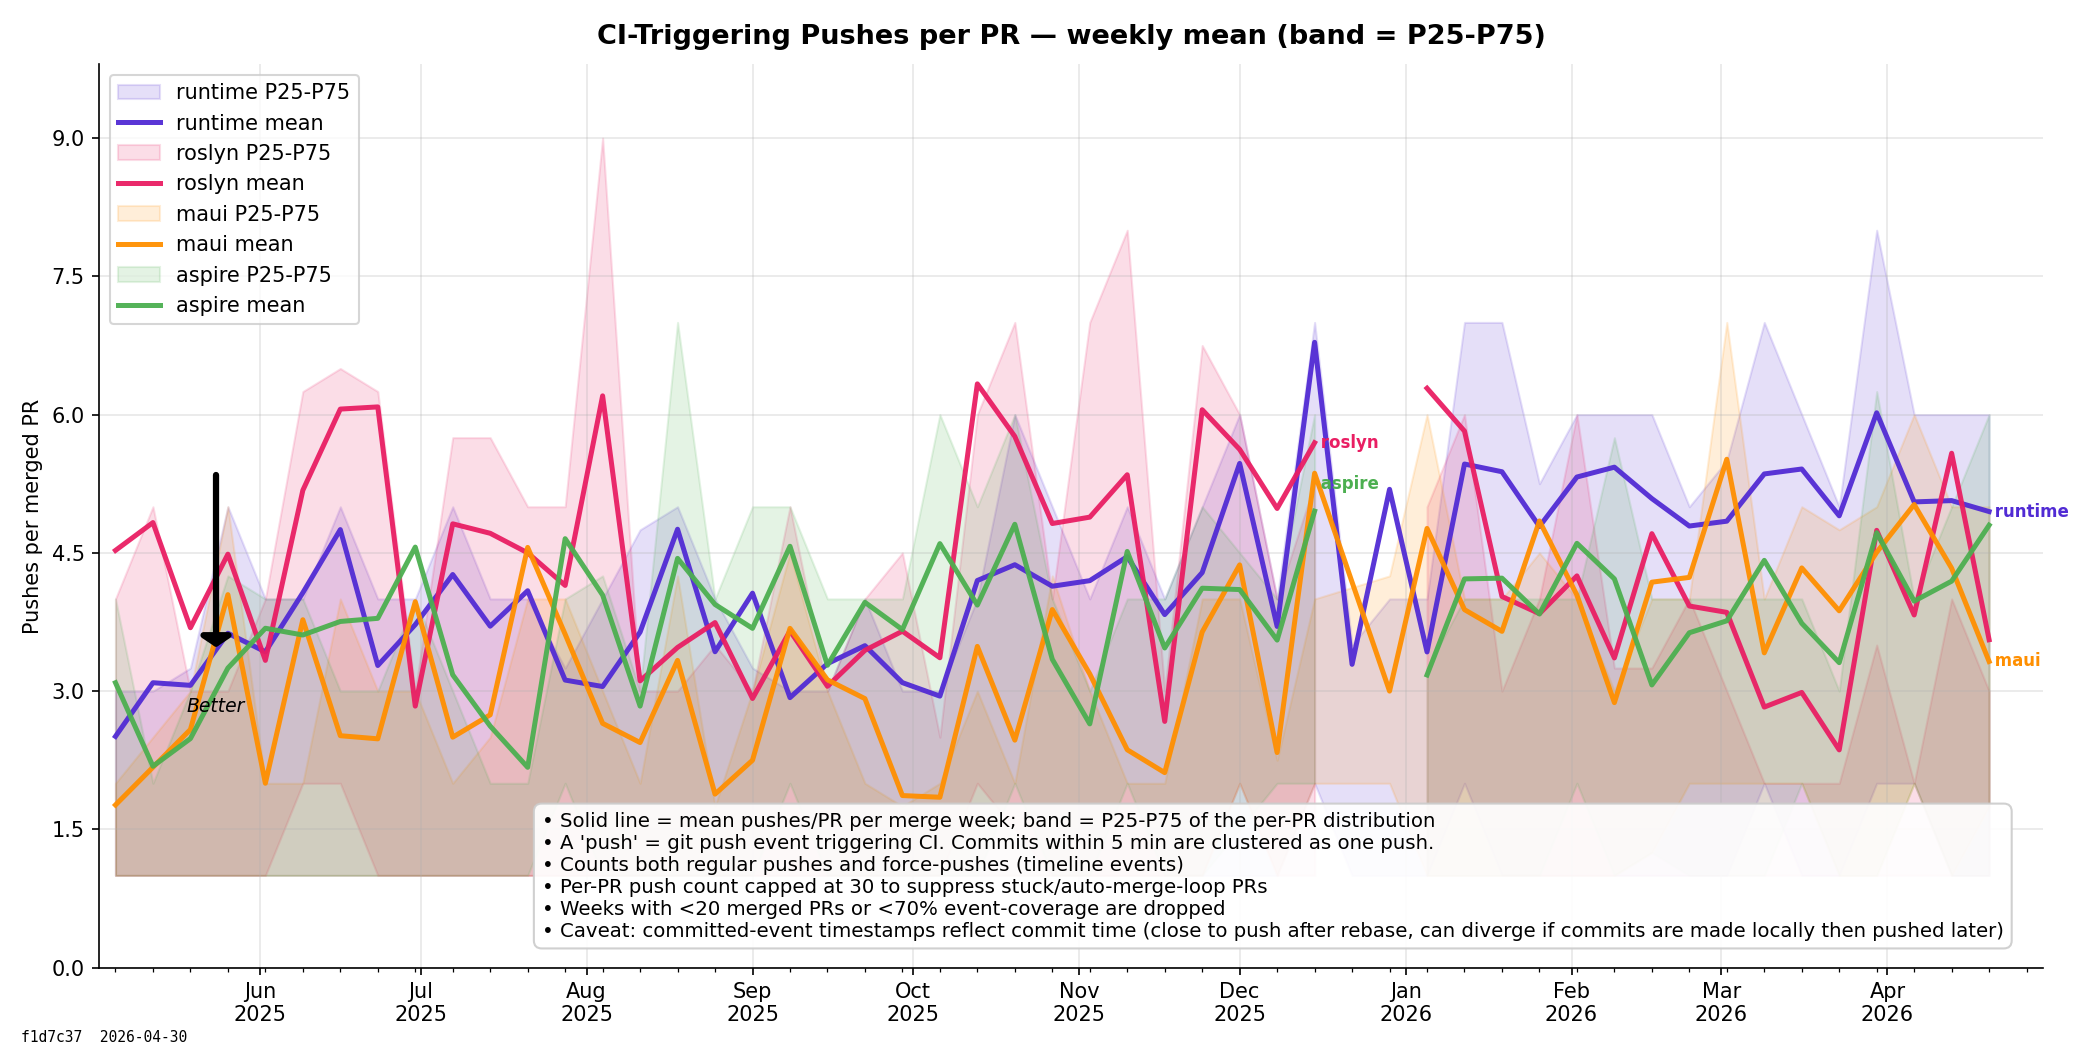
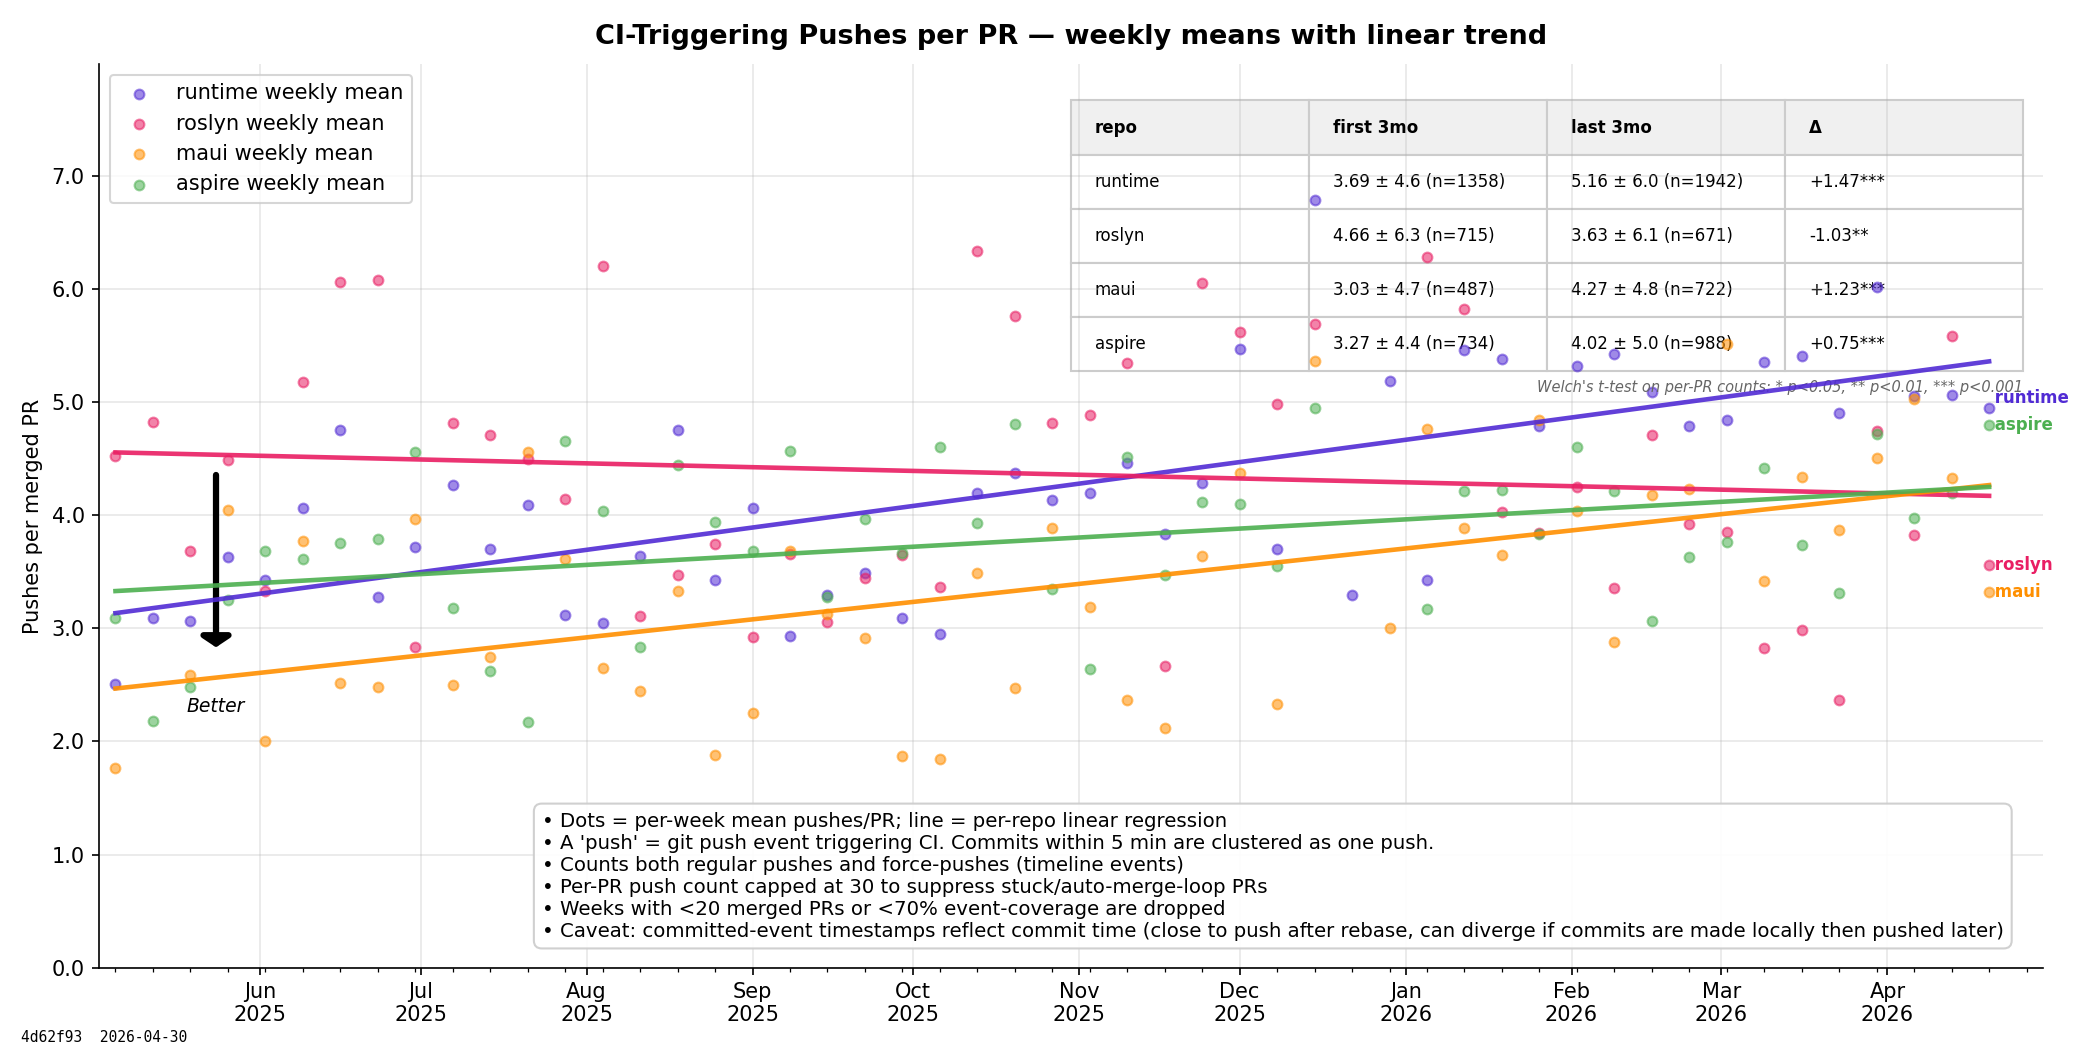
Pushes-per-PR: scatter + linear regression + first-vs-last 3mo stats table
Replaced connected weekly-mean lines with:
- Scatter of weekly mean per repo (raw signal visible)
- Per-repo linear regression line (trend question made explicit)
- Top-right comparison table: first 3 months vs last 3 months mean +/- std and Welch's t-test significance marker (***/**/*)

Result tells a much crisper story: runtime/maui/aspire all show statistically significant increases in pushes/PR; roslyn decreased significantly.

No new dependencies — Welch's t-test computed manually with normal-approx p-value (df is large enough).

diff --git a/analyze.py b/analyze.py
@@ -3632,7 +3632,7 @@ def chart_pushes_per_pr_over_time(all_items, all_push_events, output_dir):
     fig, ax = plt.subplots(figsize=(14, 7))
     setup_axes(
         ax,
-        "CI-Triggering Pushes per PR — weekly mean (band = P25-P75)",
+        "CI-Triggering Pushes per PR — weekly means with linear trend",
         "Pushes per merged PR",
     )
     ax.yaxis.set_major_formatter(FuncFormatter(lambda x, p: f"{x:.1f}"))
@@ -3648,12 +3648,17 @@ def chart_pushes_per_pr_over_time(all_items, all_push_events, output_dir):
     weeks_global = set()
     any_data = False
 
+    # Collect per-PR data (not just weekly aggregated) so we can compute
+    # first-3mo vs last-3mo stats for the comparison table.
+    repo_pr_data = {}  # repo -> [(merge_date, n_pushes), ...]
+
     for repo in PUSH_CHART_REPOS:
         items = all_items.get(repo)
         events = all_push_events.get(repo)
         if not items or not events:
             continue
 
+        per_pr = []
         push_counts = defaultdict(list)   # week -> [n_pushes per PR, ...]
         merged_total = defaultdict(int)
         for item in items:
@@ -3670,9 +3675,11 @@ def chart_pushes_per_pr_over_time(all_items, all_push_events, output_dir):
             n_pushes = cluster_pushes(ts_list)
             if n_pushes <= 0:
                 continue
-            # Cap to suppress stuck/auto-merge-loop PRs
             n_pushes = min(n_pushes, MAX_PUSHES_PER_PR)
             push_counts[wk].append(n_pushes)
+            per_pr.append((md, n_pushes))
+
+        repo_pr_data[repo] = per_pr
 
         if not push_counts:
             continue
@@ -3696,37 +3703,24 @@ def chart_pushes_per_pr_over_time(all_items, all_push_events, output_dir):
         if not x:
             continue
 
-        # Plot as separate segments where there's a gap > 14 days
-        segments = [[]]
-        for i in range(len(x)):
-            if i > 0 and (x[i] - x[i - 1]).days > 14:
-                segments.append([])
-            segments[-1].append(i)
-
+        # Plot as a scatter of weekly means + linear regression line
+        # (much cleaner than connected lines for a trend question)
         color = get_color(repo)
         short = get_short(repo)
-        first = True
-        for seg in segments:
-            if len(seg) < 2:
-                continue
-            sx = [x[i] for i in seg]
-            sm = [mean_v[i] for i in seg]
-            s25 = [p25[i] for i in seg]
-            s75 = [p75[i] for i in seg]
-            ax.fill_between(sx, s25, s75, color=color, alpha=0.15,
-                            label=f"{short} P25-P75" if first else None)
-            ax.plot(sx, sm, color=color, linewidth=2.4, alpha=0.95,
-                    label=f"{short} mean" if first else None)
-            first = False
-            visible_data.extend(s75)
-        largest = max(segments, key=len)
-        if len(largest) >= 2:
-            line_ends.append(([x[i] for i in largest],
-                              [mean_v[i] for i in largest], short, color))
-        for seg in segments:
-            if len(seg) >= 2:
-                for i in seg:
-                    weeks_global.add(x[i])
+        x_dt = mdates.date2num(x)
+        ax.scatter(x, mean_v, color=color, s=22, alpha=0.55, zorder=3,
+                   label=f"{short} weekly mean")
+        # Linear regression on weekly means
+        if len(x) >= 4:
+            slope, intercept = np.polyfit(x_dt, mean_v, 1)
+            xfit = np.array([x_dt[0], x_dt[-1]])
+            yfit = slope * xfit + intercept
+            ax.plot(mdates.num2date(xfit), yfit, color=color, linewidth=2.2,
+                    alpha=0.9, zorder=4)
+        visible_data.extend(mean_v)
+        line_ends.append((x, mean_v, short, color))
+        for w in x:
+            weeks_global.add(w)
 
     if not any_data or not weeks_global:
         plt.close(fig)
@@ -3750,8 +3744,77 @@ def chart_pushes_per_pr_over_time(all_items, all_push_events, output_dir):
     ax.legend(loc="upper left", fontsize=10)
     label_line_ends(ax, line_ends)
     add_direction_arrow(ax, "down")
+
+    # Compare-periods stats table (top right): mean ± std for first 3 mo vs
+    # last 3 mo of the visible window, with Welch's t-test significance marker.
+    if weeks_global and repo_pr_data:
+        win_start = min(weeks_global)
+        win_end = max(weeks_global) + timedelta(days=6)
+        first_end = win_start + timedelta(days=90)
+        last_start = win_end - timedelta(days=90)
+        table_rows = [["repo", "first 3mo", "last 3mo", "Δ"]]
+        for repo in PUSH_CHART_REPOS:
+            data = repo_pr_data.get(repo) or []
+            first_vals = [n for d, n in data if win_start <= d < first_end]
+            last_vals = [n for d, n in data if last_start <= d <= win_end]
+            if len(first_vals) < 20 or len(last_vals) < 20:
+                table_rows.append([get_short(repo), "—", "—", "—"])
+                continue
+            n1, n2 = len(first_vals), len(last_vals)
+            m1 = float(np.mean(first_vals))
+            m2 = float(np.mean(last_vals))
+            s1 = float(np.std(first_vals, ddof=1))
+            s2 = float(np.std(last_vals, ddof=1))
+            # Welch's t-test (no scipy needed)
+            se = (s1 ** 2 / n1 + s2 ** 2 / n2) ** 0.5
+            if se > 0:
+                t = (m2 - m1) / se
+                # Welch-Satterthwaite df
+                num = (s1 ** 2 / n1 + s2 ** 2 / n2) ** 2
+                den = (s1 ** 4 / (n1 ** 2 * (n1 - 1))
+                       + s2 ** 4 / (n2 ** 2 * (n2 - 1)))
+                df = num / den if den > 0 else min(n1, n2) - 1
+                # Two-sided p-value via normal approximation (df is large)
+                from math import erf, sqrt
+                z = abs(t)
+                pval = 2 * (1 - 0.5 * (1 + erf(z / sqrt(2))))
+            else:
+                pval = 1.0
+            sig = ("***" if pval < 0.001
+                   else "**" if pval < 0.01
+                   else "*" if pval < 0.05 else "")
+            delta = m2 - m1
+            sign = "+" if delta >= 0 else ""
+            table_rows.append([
+                get_short(repo),
+                f"{m1:.2f} ± {s1:.1f} (n={n1})",
+                f"{m2:.2f} ± {s2:.1f} (n={n2})",
+                f"{sign}{delta:.2f}{sig}",
+            ])
+        tbl = ax.table(
+            cellText=table_rows[1:],
+            colLabels=table_rows[0],
+            loc="upper right",
+            cellLoc="left",
+            colLoc="left",
+            bbox=[0.50, 0.66, 0.49, 0.30],
+        )
+        tbl.auto_set_font_size(False)
+        tbl.set_fontsize(8)
+        for (r, c), cell in tbl.get_celld().items():
+            cell.set_edgecolor("#cccccc")
+            if r == 0:
+                cell.set_facecolor("#f0f0f0")
+                cell.set_text_props(weight="bold")
+            else:
+                cell.set_facecolor("#ffffff")
+        ax.text(0.99, 0.65,
+                "Welch's t-test on per-PR counts: * p<0.05, ** p<0.01, *** p<0.001",
+                transform=ax.transAxes, fontsize=7, color="#666",
+                ha="right", va="top", style="italic")
+
     add_insight_box(ax, [
-        "Solid line = mean pushes/PR per merge week; band = P25-P75 of the per-PR distribution",
+        "Dots = per-week mean pushes/PR; line = per-repo linear regression",
         f"A 'push' = git push event triggering CI. Commits within "
         f"{PUSH_CLUSTER_GAP_MINUTES} min are clustered as one push.",
         "Counts both regular pushes and force-pushes (timeline events)",
